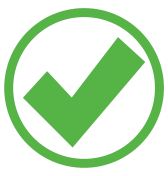
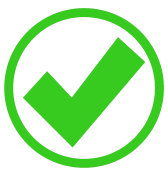
asset touch up

diff --git a/MainWindow.xaml b/MainWindow.xaml
@@ -6,8 +6,8 @@
     xmlns:local="clr-namespace:ClearClock"
     xmlns:mc="http://schemas.openxmlformats.org/markup-compatibility/2006"
     Title="ClearClock"
-    Width="300"
-    Height="300"
+    Width="120"
+    Height="120"
     AllowsTransparency="True"
     Background="Transparent"
     Closing="Window_Closing"

diff --git a/MainWindow.xaml.cs b/MainWindow.xaml.cs
@@ -1,23 +1,16 @@
 using System;
-using System.Collections.Generic;
+using System.IO;
 using System.Linq;
 using System.Text;
 using System.Threading.Tasks;
 using System.Windows;
-using System.Windows.Controls;
-using System.Windows.Data;
-using System.Windows.Documents;
 using System.Windows.Input;
 using System.Windows.Media;
-using System.Windows.Media.Imaging;
-using System.Windows.Navigation;
-using System.Windows.Shapes;
 using System.Windows.Threading;
 using System.Diagnostics;
 using System.Reflection;
-using Forms = System.Windows.Forms;
 using System.Media;
-using System.IO;
+using Forms = System.Windows.Forms;
 
 namespace ClearClock
 {
@@ -95,7 +88,7 @@ namespace ClearClock
                 GC.Collect();
 
                 // Reinforce our topmost setting
-                if (notifyIcon.ContextMenuStrip.Items[MENU1].Image == ClearClock.Properties.Resources.red_x)
+                if (notifyIcon.ContextMenuStrip.Items[MENU1].Image == ClearClock.Properties.Resources.gray_check)
                     this.Topmost = false;
                 else
                 {
@@ -128,11 +121,11 @@ namespace ClearClock
                 notifyIcon.Text = Assembly.GetExecutingAssembly().GetName().Name;
                 notifyIcon.Click += NotifyIcon_Click;
                 notifyIcon.ContextMenuStrip = new Forms.ContextMenuStrip();
-                notifyIcon.ContextMenuStrip.Items.Add("Stay on top", ClearClock.Properties.Resources.green_check, OnTopmostClicked);  // MENU1
-                notifyIcon.ContextMenuStrip.Items.Add("Smooth seconds", ClearClock.Properties.Resources.red_x, OnSmoothClicked);      // MENU2
-                notifyIcon.ContextMenuStrip.Items.Add("Hour notifications", ClearClock.Properties.Resources.red_x, OnNotifyClicked); // MENU3
-                notifyIcon.ContextMenuStrip.Items.Add("Play tick sound", ClearClock.Properties.Resources.red_x, OnSoundClicked); // MENU4
-                notifyIcon.ContextMenuStrip.Items.Add("Exit application", ClearClock.Properties.Resources.exit, OnExitClicked);       // MENU5
+                notifyIcon.ContextMenuStrip.Items.Add("Stay on top", ClearClock.Properties.Resources.green_check, OnTopmostClicked);      // MENU1
+                notifyIcon.ContextMenuStrip.Items.Add("Smooth seconds", ClearClock.Properties.Resources.gray_check, OnSmoothClicked);     // MENU2
+                notifyIcon.ContextMenuStrip.Items.Add("Hour notifications", ClearClock.Properties.Resources.gray_check, OnNotifyClicked); // MENU3
+                notifyIcon.ContextMenuStrip.Items.Add("Play tick sound", ClearClock.Properties.Resources.gray_check, OnSoundClicked);     // MENU4
+                notifyIcon.ContextMenuStrip.Items.Add("Exit application", ClearClock.Properties.Resources.exit, OnExitClicked);           // MENU5
                 notifyIcon.Visible = true;
             }
             catch (Exception ex)
@@ -158,17 +151,17 @@ namespace ClearClock
 
                 #region [Update menu settings]
                 this.Topmost = SettingsManager.StayOnTop;
-                notifyIcon.ContextMenuStrip.Items[MENU1].Image = SettingsManager.StayOnTop ? ClearClock.Properties.Resources.green_check : ClearClock.Properties.Resources.red_x;
+                notifyIcon.ContextMenuStrip.Items[MENU1].Image = SettingsManager.StayOnTop ? ClearClock.Properties.Resources.green_check : ClearClock.Properties.Resources.gray_check;
 
                 smoothMode = SettingsManager.SmoothSeconds;
-                notifyIcon.ContextMenuStrip.Items[MENU2].Image = SettingsManager.SmoothSeconds ? ClearClock.Properties.Resources.green_check : ClearClock.Properties.Resources.red_x;
+                notifyIcon.ContextMenuStrip.Items[MENU2].Image = SettingsManager.SmoothSeconds ? ClearClock.Properties.Resources.green_check : ClearClock.Properties.Resources.gray_check;
                 timer.Interval = SettingsManager.SmoothSeconds ? new TimeSpan(0, 0, 0, 0, 36) : new TimeSpan(0, 0, 0, 0, 1000);
 
                 hourNotify = SettingsManager.Notifications;
-                notifyIcon.ContextMenuStrip.Items[MENU3].Image = SettingsManager.Notifications ? ClearClock.Properties.Resources.green_check : ClearClock.Properties.Resources.red_x;
+                notifyIcon.ContextMenuStrip.Items[MENU3].Image = SettingsManager.Notifications ? ClearClock.Properties.Resources.green_check : ClearClock.Properties.Resources.gray_check;
 
                 tickSound = SettingsManager.Sound;
-                notifyIcon.ContextMenuStrip.Items[MENU4].Image = SettingsManager.Sound ? ClearClock.Properties.Resources.green_check : ClearClock.Properties.Resources.red_x;
+                notifyIcon.ContextMenuStrip.Items[MENU4].Image = SettingsManager.Sound ? ClearClock.Properties.Resources.green_check : ClearClock.Properties.Resources.gray_check;
                 #endregion
             }
             else // The window params are defaulted to -1, meaning we have not created/loaded a config file yet.
@@ -242,7 +235,7 @@ namespace ClearClock
             if (this.Topmost)
             {
                 this.Topmost = SettingsManager.StayOnTop = false;
-                notifyIcon.ContextMenuStrip.Items[MENU1].Image = ClearClock.Properties.Resources.red_x;
+                notifyIcon.ContextMenuStrip.Items[MENU1].Image = ClearClock.Properties.Resources.gray_check;
             }
             else
             {
@@ -260,7 +253,7 @@ namespace ClearClock
             {
                 smoothMode = SettingsManager.SmoothSeconds = false;
                 timer.Interval = new TimeSpan(0, 0, 0, 0, 1000);
-                notifyIcon.ContextMenuStrip.Items[MENU2].Image = ClearClock.Properties.Resources.red_x;
+                notifyIcon.ContextMenuStrip.Items[MENU2].Image = ClearClock.Properties.Resources.gray_check;
             }
             else
             {
@@ -278,7 +271,7 @@ namespace ClearClock
             if (hourNotify)
             {
                 hourNotify = SettingsManager.Notifications = false;
-                notifyIcon.ContextMenuStrip.Items[MENU3].Image = ClearClock.Properties.Resources.red_x;
+                notifyIcon.ContextMenuStrip.Items[MENU3].Image = ClearClock.Properties.Resources.gray_check;
             }
             else
             {
@@ -295,7 +288,7 @@ namespace ClearClock
             if (tickSound)
             {
                 tickSound = SettingsManager.Sound = false;
-                notifyIcon.ContextMenuStrip.Items[MENU4].Image = ClearClock.Properties.Resources.red_x;
+                notifyIcon.ContextMenuStrip.Items[MENU4].Image = ClearClock.Properties.Resources.gray_check;
             }
             else
             {

diff --git a/Properties/Resources.Designer.cs b/Properties/Resources.Designer.cs
@@ -119,6 +119,16 @@ namespace ClearClock.Properties {
                 return ((System.Drawing.Bitmap)(obj));
             }
         }
+
+        /// <summary>
+        ///   Looks up a localized resource of type System.Drawing.Bitmap.
+        /// </summary>
+        internal static System.Drawing.Bitmap gray_check {
+            get {
+                object obj = ResourceManager.GetObject("gray_check", resourceCulture);
+                return ((System.Drawing.Bitmap)(obj));
+            }
+        }
         
         /// <summary>
         ///   Looks up a localized resource of type System.Drawing.Bitmap.
